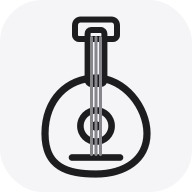
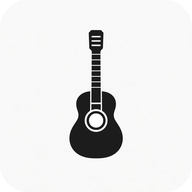
Иконки инструментов из Песни (lad-v2)
Те же PNG acoustic/distortion/piano, HTML переключён с svg на png.

Changed region(s): [[0.1875, 0.0625, 0.8125, 0.9375]]

diff --git a/index.html b/index.html
@@ -23,13 +23,13 @@
       </div>
       <div class="instrument-bar" role="group" aria-label="Звук">
         <button type="button" class="instrument-btn" data-instrument="acoustic" aria-label="Акустическая гитара" aria-pressed="false">
-          <img src="icons/acoustic.svg" alt="" width="40" height="40" />
+          <img src="icons/acoustic.png" alt="" width="40" height="40" />
         </button>
         <button type="button" class="instrument-btn" data-instrument="distortion" aria-label="Дисторшн" aria-pressed="false">
-          <img src="icons/distortion.svg" alt="" width="40" height="40" />
+          <img src="icons/distortion.png" alt="" width="40" height="40" />
         </button>
         <button type="button" class="instrument-btn" data-instrument="piano" aria-label="Фортепиано" aria-pressed="false">
-          <img src="icons/piano.svg" alt="" width="40" height="40" />
+          <img src="icons/piano.png" alt="" width="40" height="40" />
         </button>
       </div>
     </header>
